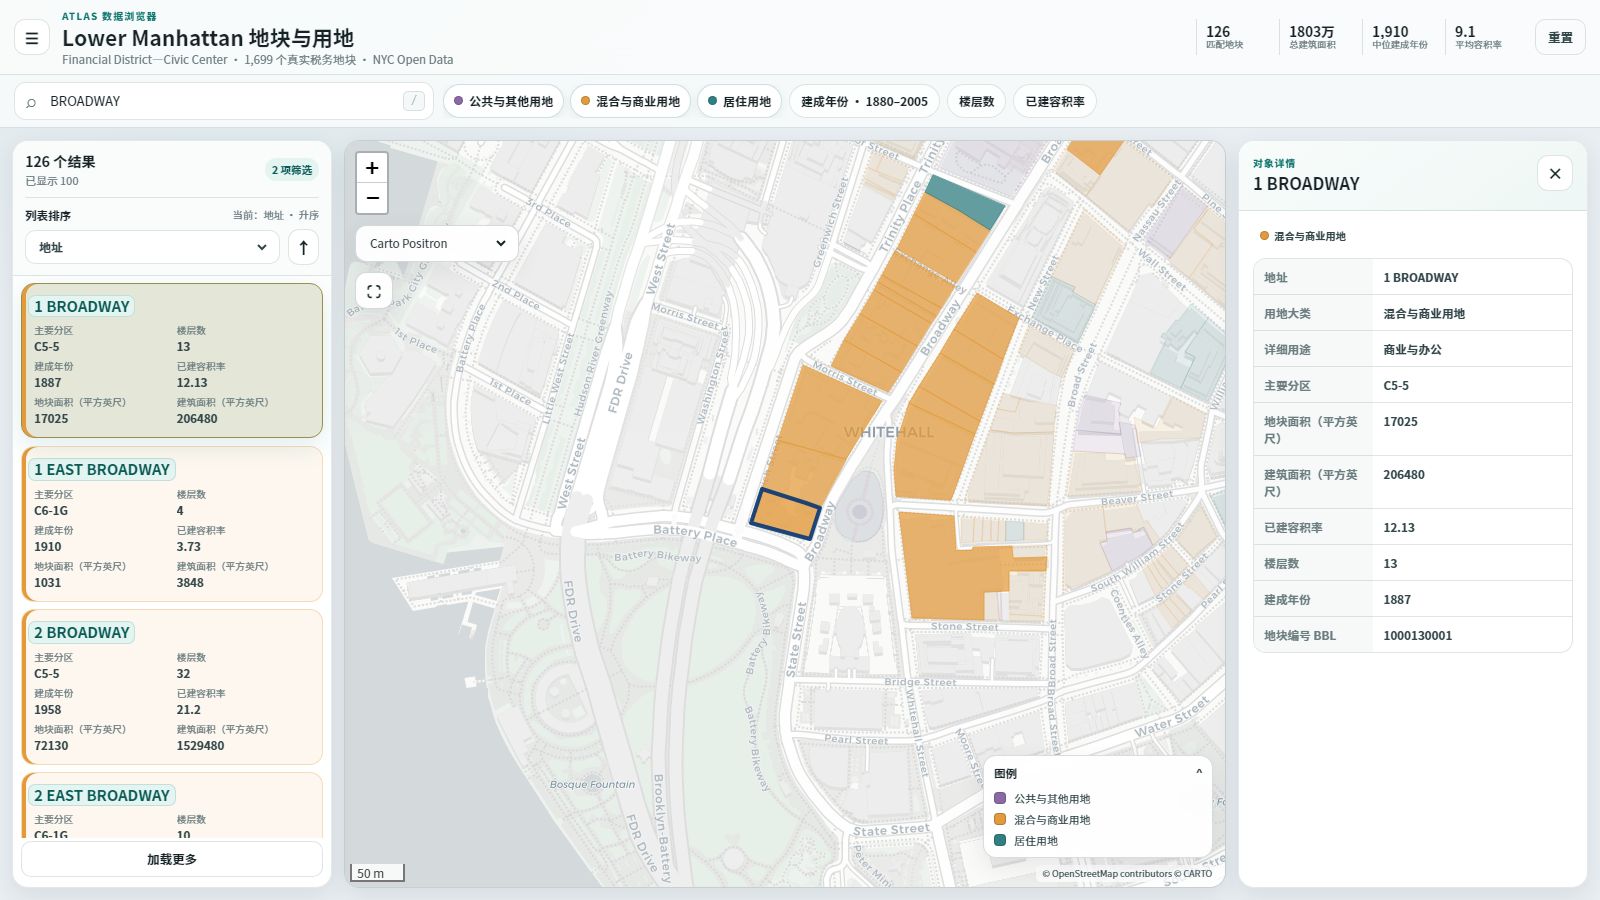
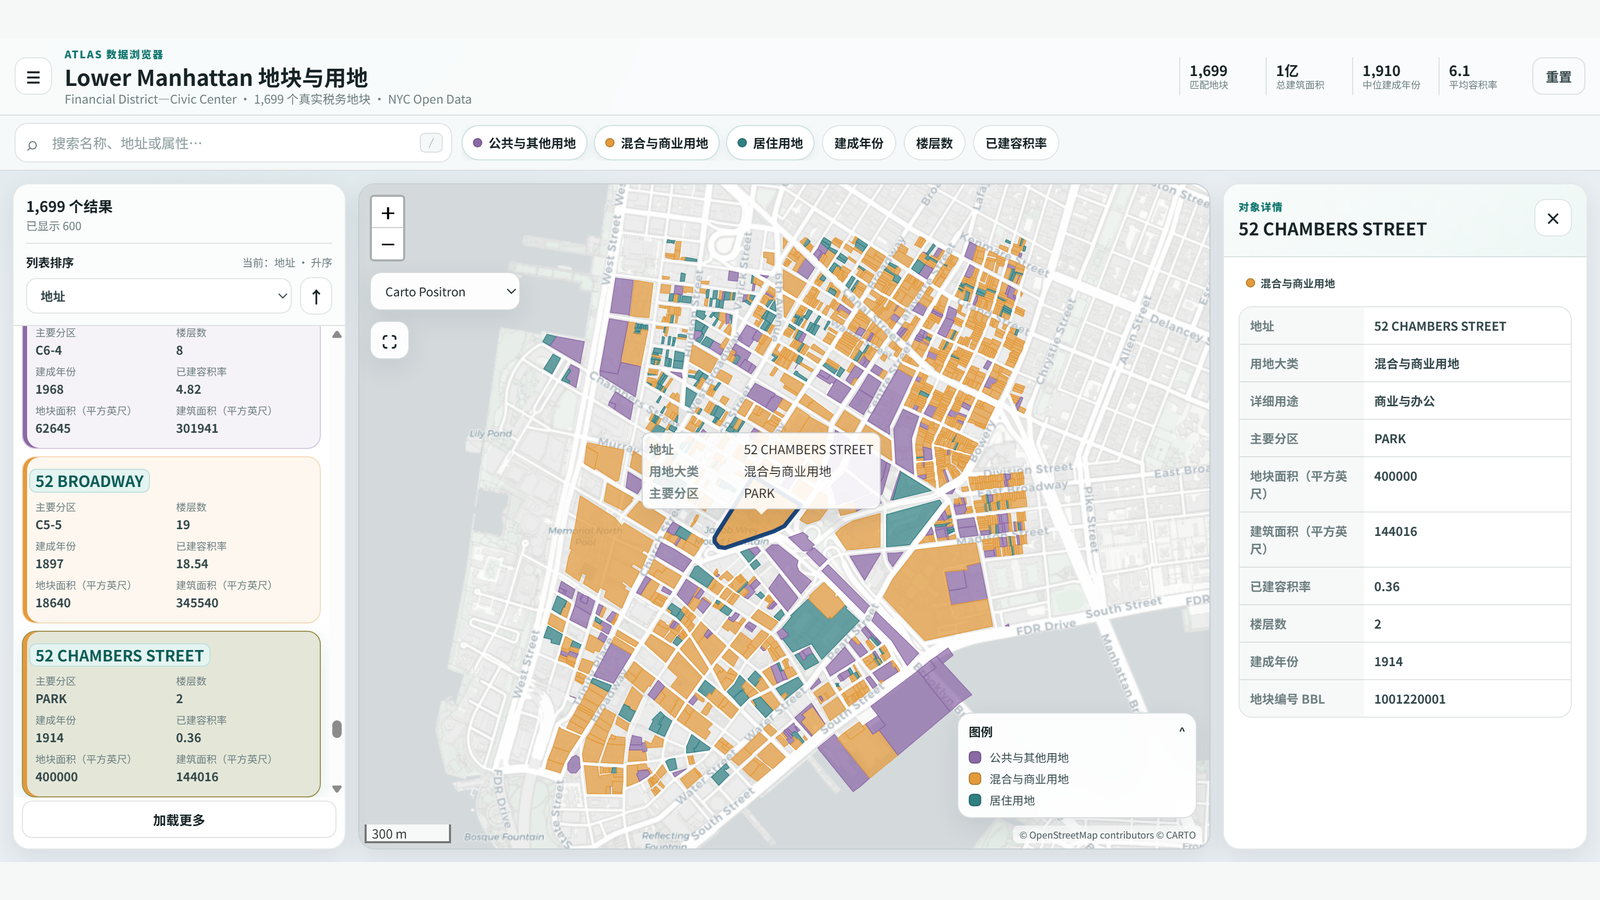
docs: refocus README template showcase

diff --git a/tests/test_demo_site.py b/tests/test_demo_site.py
@@ -68,7 +68,17 @@ def test_readme_links_to_both_interactive_demos() -> None:
     for locale in ("en-US", "zh-CN"):
         assert f"{PAGES_URL}/{locale}/map-list/" in readme
         assert f"{PAGES_URL}/{locale}/multilayer/" in readme
-    assert "正在搜索 Broadway" in readme
+    for expected in (
+        "#### 地块分类统计",
+        "#### 多图层可视化",
+        "**功能：**",
+        "**优势：**",
+        "#### Parcel classification and statistics",
+        "#### Multilayer visualization",
+        "**Capabilities:**",
+        "**Advantages:**",
+    ):
+        assert expected in readme
 
 
 def test_pages_workflow_uses_official_actions_and_permissions() -> None:

diff --git a/README.md b/README.md
@@ -17,29 +17,33 @@ Interactive Map Builder 是一个给 Codex 和其他 AI 助手使用的地图 Sk
 
 [查看更新日志](CHANGELOG.md)。
 
-### 做出来是什么样
+### 预制模板与功能展示
 
-下面两张图都是本工具生成的真实 HTML 页面截图，不是另外制作的设计稿。示例数据来自
-[NYC Open Data](assets/examples/SOURCES.md)。
+下面展示 Skill 内置的两种预制交互模板。截图均来自实际生成的 HTML 页面，不是另外制作
+的设计稿；示例数据来自 [NYC Open Data](assets/examples/SOURCES.md)，仅用于演示模板能力。
 在线演示需要联网加载街道底图。
 
-#### 可搜索、可分类的地块地图
+#### 地块分类统计
 
-搜索道路名称后，左侧会立即列出匹配地块；也可以分别开关居住、商业和公共用地，
-点击任意地块查看用途、分区、面积、容积率、楼层和建成年份。
+- **功能：** 在同一页面中搜索名称、地址或属性，按地块类别筛选结果，查看汇总指标和
+  排序清单，并点击地块联动查看用途、分区、面积、容积率、楼层和建成年份等详情。
+- **优势：** 将空间分布、分类统计、对象清单与单体详情整合在一起，既能快速筛选目标，
+  也能保留完整的空间语境，适合地块、设施、项目和选址对象等清单型数据。
 
-[![正在搜索 Broadway、带分类开关和地块详情的 Lower Manhattan 用地地图](assets/screenshots/zh-CN/map-list.png)](https://xlbaoxl.github.io/interactive-map-builder/zh-CN/map-list/)
+[![地块分类统计模板，展示分类筛选、结果排序、汇总指标和地块详情](assets/screenshots/zh-CN/map-list.png)](https://xlbaoxl.github.io/interactive-map-builder/zh-CN/map-list/)
 
-[打开并操作这张地图](https://xlbaoxl.github.io/interactive-map-builder/zh-CN/map-list/)
+[查看“地块分类统计”交互演示](https://xlbaoxl.github.io/interactive-map-builder/zh-CN/map-list/)
 
-#### 可以开关的多图层地图
+#### 多图层可视化
 
-可以同时查看 Downtown Brooklyn 的地铁站、自行车线路和邻里分区，按业务图层
-分别搜索，并随时开关图层或切换底图。
+- **功能：** 在一张地图中叠加面、线、点等多类业务数据，按图层搜索，并通过图层开关、
+  分类图例、对象详情和底图切换控制展示内容。
+- **优势：** 便于比较不同主题数据的分布及其空间关系，减少在多张独立地图之间切换，
+  适合交通、规划、公共服务、生态环境等需要联合解读多个图层的场景。
 
-[![带业务图层搜索、图层开关和分类图例的 Downtown Brooklyn 多图层地图](assets/screenshots/zh-CN/multilayer.png)](https://xlbaoxl.github.io/interactive-map-builder/zh-CN/multilayer/)
+[![多图层可视化模板，展示业务图层搜索、图层开关、分类图例和对象详情](assets/screenshots/zh-CN/multilayer.png)](https://xlbaoxl.github.io/interactive-map-builder/zh-CN/multilayer/)
 
-[打开并操作这张地图](https://xlbaoxl.github.io/interactive-map-builder/zh-CN/multilayer/)
+[查看“多图层可视化”交互演示](https://xlbaoxl.github.io/interactive-map-builder/zh-CN/multilayer/)
 
 ### 安装和使用（任选一种方法）
 
@@ -220,30 +224,38 @@ generating an interactive map plus presentation- and publication-ready figures.
 
 [Read the changelog](CHANGELOG.md).
 
-### What the output looks like
+### Built-in templates and capabilities
 
-Both images below are screenshots of HTML pages generated by this project, not separate
-design mockups. The examples use fixed snapshots from
-[NYC Open Data](assets/examples/SOURCES.md).
+The project includes two ready-made interactive templates. These are screenshots of generated
+HTML pages, not separate design mockups. The examples use
+[NYC Open Data](assets/examples/SOURCES.md) only to demonstrate the templates' capabilities.
 The online demos need an internet connection to load the street basemap.
 
-#### Searchable, classified parcel map
+#### Parcel classification and statistics
 
-Search for a street to populate the matching parcel list, toggle residential, commercial, and
-public land-use classes, then select any parcel to inspect zoning, area, FAR, floors, and age.
+- **Capabilities:** Search names, addresses, or attributes; filter parcel classes; review summary
+  metrics and a sortable result list; and select a parcel to inspect land use, zoning, area, FAR,
+  floors, construction year, and other attributes.
+- **Advantages:** Combines spatial distribution, class-level statistics, a browsable inventory,
+  and record details in one view. It supports rapid target selection without losing geographic
+  context and works well for parcels, facilities, projects, and candidate sites.
 
-[![Lower Manhattan land-use map searching Broadway with class toggles and parcel details](assets/screenshots/en-US/map-list.png)](https://xlbaoxl.github.io/interactive-map-builder/en-US/map-list/)
+[![Parcel classification and statistics template with class filters, sortable results, summary metrics, and parcel details](assets/screenshots/en-US/map-list.png)](https://xlbaoxl.github.io/interactive-map-builder/en-US/map-list/)
 
-[Open the interactive map](https://xlbaoxl.github.io/interactive-map-builder/en-US/map-list/)
+[Open the parcel classification and statistics demo](https://xlbaoxl.github.io/interactive-map-builder/en-US/map-list/)
 
-#### Toggleable multilayer map
+#### Multilayer visualization
 
-View Downtown Brooklyn subway stations, bicycle routes, and neighborhoods together, search
-within one business layer at a time, then toggle layers or switch basemaps.
+- **Capabilities:** Combine polygon, line, and point datasets in one map; search within a selected
+  business layer; and control the display through layer toggles, categorical legends, record
+  details, and basemap switching.
+- **Advantages:** Makes cross-theme distributions and spatial relationships easier to compare
+  while reducing the need to switch between separate maps. It is suited to transport, planning,
+  public-service, environmental, and other multi-layer analysis contexts.
 
-[![Downtown Brooklyn multilayer map with business-layer search, layer controls, and a categorical legend](assets/screenshots/en-US/multilayer.png)](https://xlbaoxl.github.io/interactive-map-builder/en-US/multilayer/)
+[![Multilayer visualization template with business-layer search, layer controls, categorical legends, and record details](assets/screenshots/en-US/multilayer.png)](https://xlbaoxl.github.io/interactive-map-builder/en-US/multilayer/)
 
-[Open the interactive map](https://xlbaoxl.github.io/interactive-map-builder/en-US/multilayer/)
+[Open the multilayer visualization demo](https://xlbaoxl.github.io/interactive-map-builder/en-US/multilayer/)
 
 ### Install and use it (choose either method)
 

diff --git a/CHANGELOG.md b/CHANGELOG.md
@@ -34,6 +34,9 @@ do not yet have Git tags or GitHub Releases.
   Made the packaged JSON Schema the single source of truth for the current MapSpec version.
 - 公共 `map-list` 演示仅保留固定数据快照，展示配置统一由演示构建器生成。
   Made the demo builder the sole source of truth for the public `map-list` configuration.
+- README 的模板展示改为以功能和优势为中心，并用用户选定的完整中文界面截图替换中文预览图。
+  Reframed the README template showcase around capabilities and advantages, and replaced the
+  Chinese previews with the user-selected full-interface screenshots.
 
 ### Fixed / 修复
 
